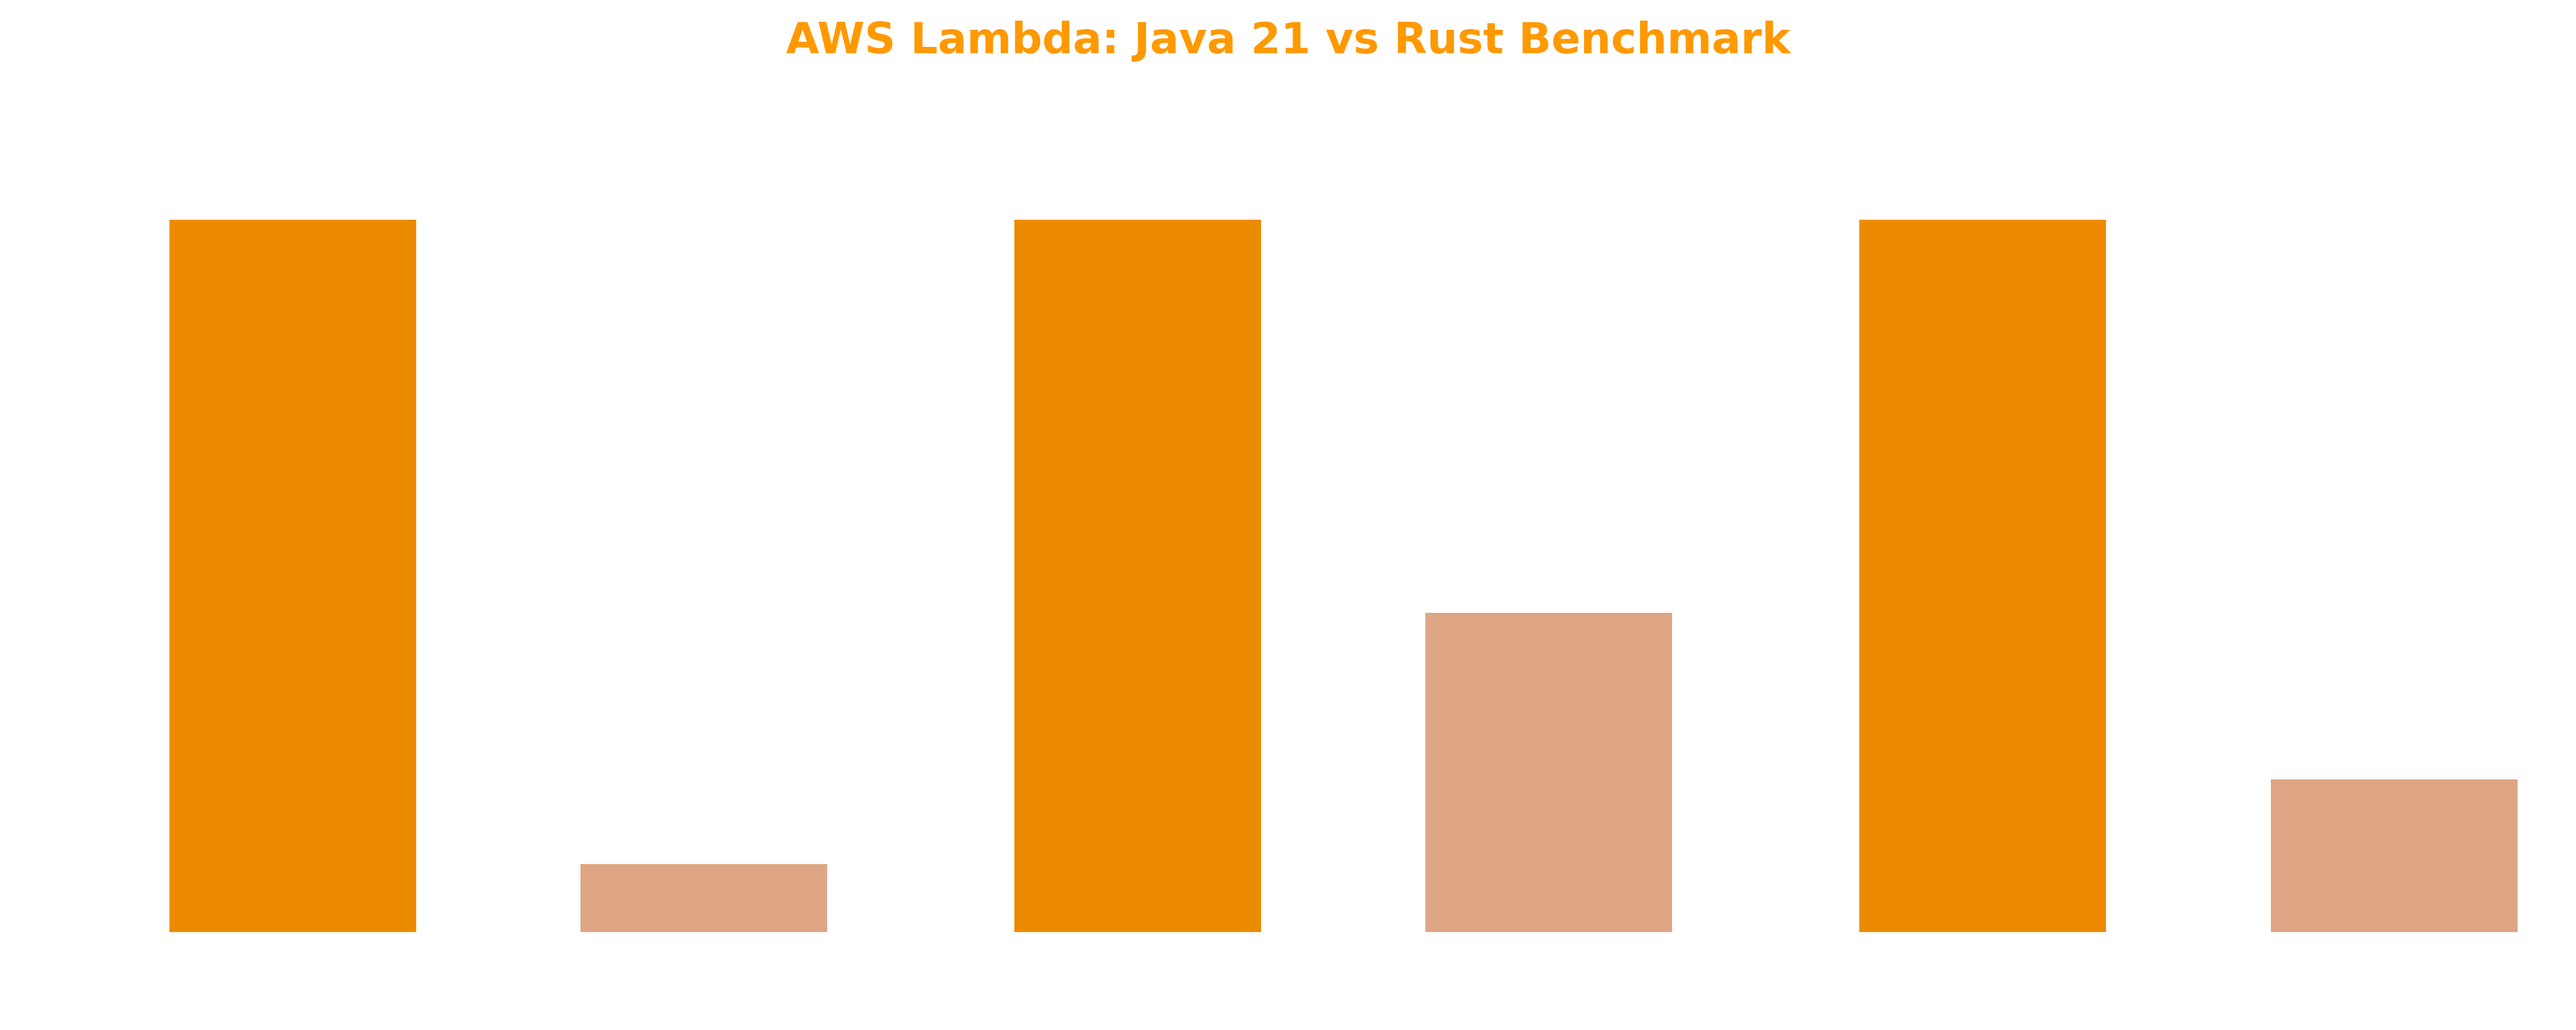
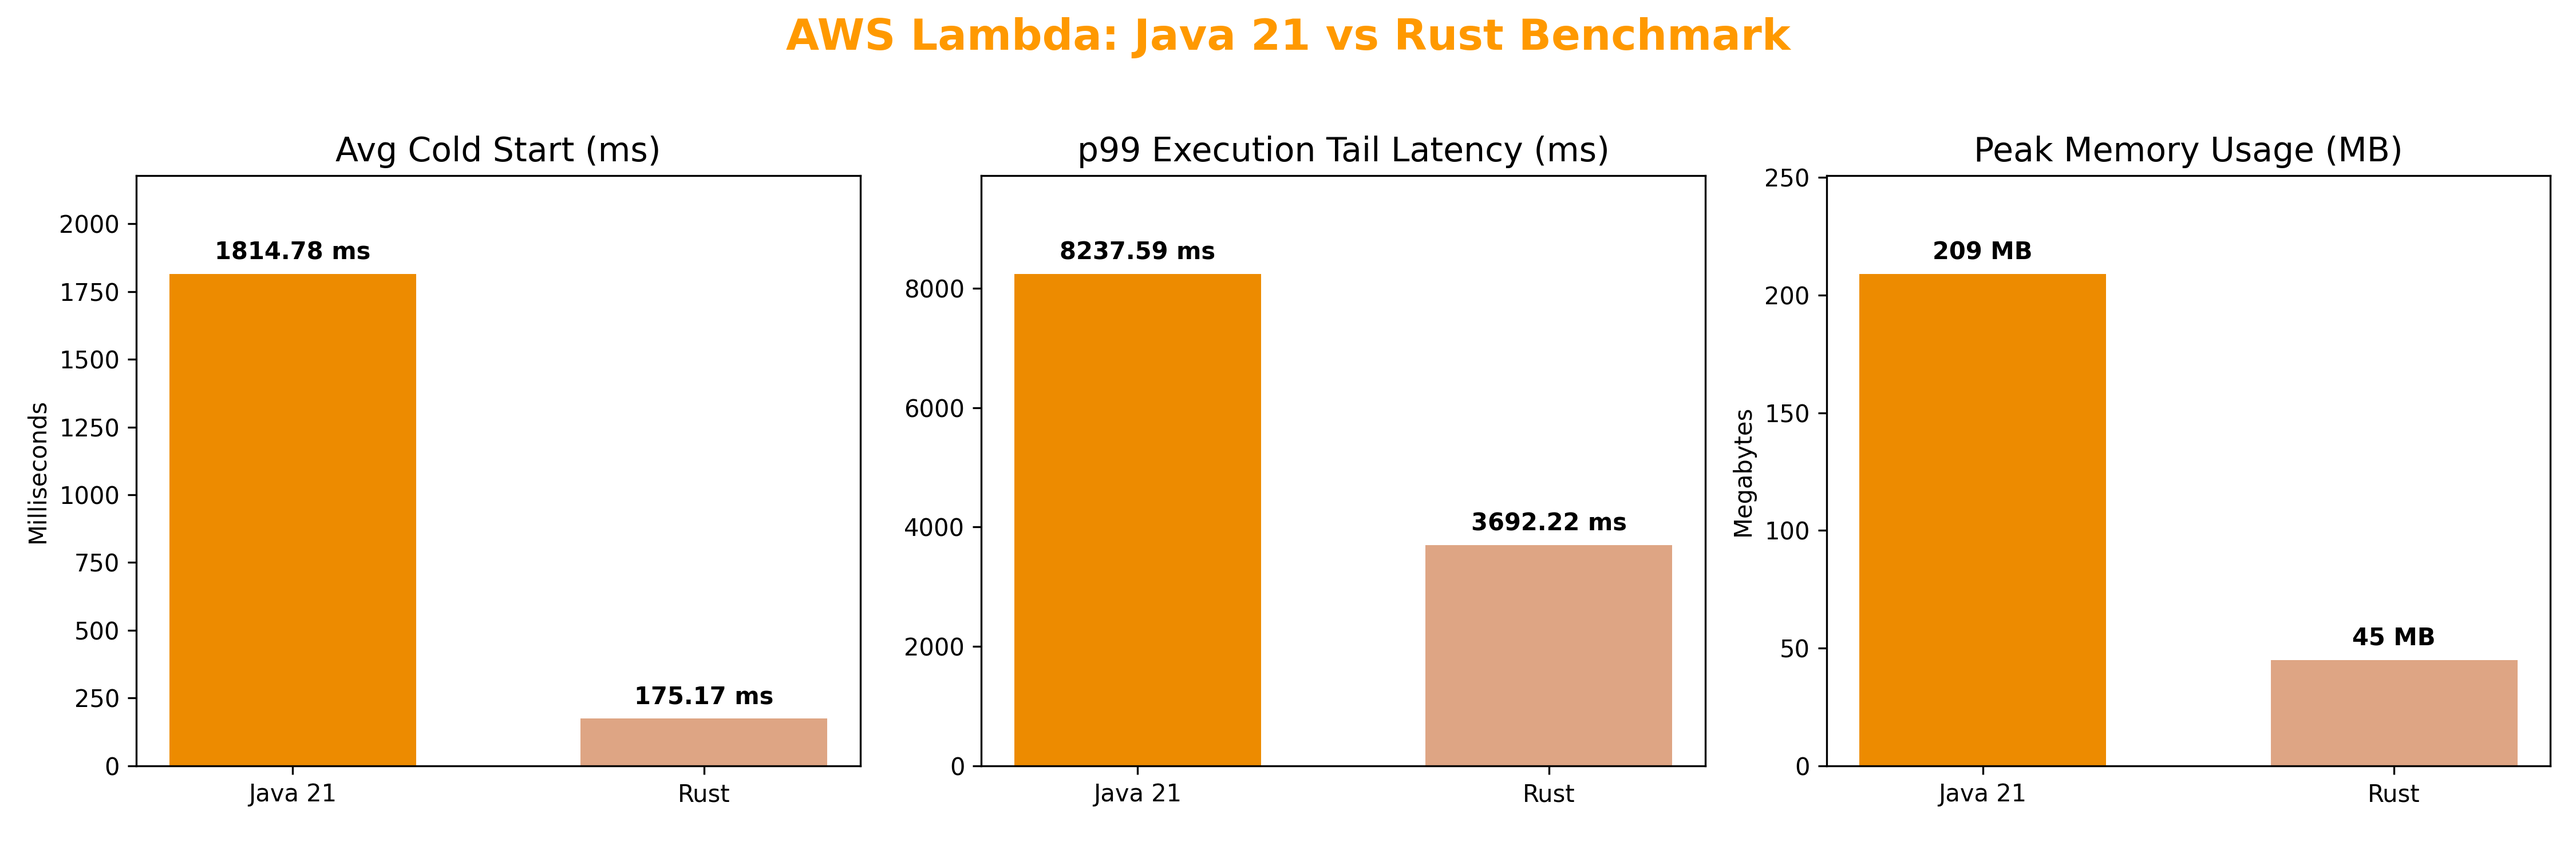
docs: Python dashboard script documentation and examples

diff --git a/scripts/dashboard.py b/scripts/dashboard.py
@@ -1,39 +1,67 @@
 import matplotlib.pyplot as plt
-import numpy as np
+import json
 import os
+import glob
+
+REPORTS_DIR = 'reports'
+report_files = glob.glob(os.path.join(REPORTS_DIR, '*_daily_report.json'))
+if not report_files:
+    raise FileNotFoundError(f"No file found inside {REPORTS_DIR}/")
+
+latest_report = max(report_files, key=os.path.getctime)
+print(f"Reading data: {latest_report}")
+
+with open(latest_report, 'r') as f:
+    data = json.load(f)
+funcs = data['functions']
 
 labels = ['Java 21', 'Rust']
-cold_starts = [1814.78, 175.26]       # ms
-p99_duration = [8229.60, 3691.89]     # ms
-memory_peak = [209.00, 45.00]         # MB
+cold_starts = [
+    funcs['java_function']['cloudwatch']['cold_start_ms']['avg'],
+    funcs['rust_function']['cloudwatch']['cold_start_ms']['avg']
+]
+p99_duration = [
+    funcs['java_function']['cloudwatch']['duration_ms']['p99'],
+    funcs['rust_function']['cloudwatch']['duration_ms']['p99']
+]
+memory_peak = [
+    funcs['java_function']['cloudwatch']['memory_used_mb']['max'],
+    funcs['rust_function']['cloudwatch']['memory_used_mb']['max']
+]
 
-plt.style.use('dark_background')
-fig, (ax1, ax2, ax3) = plt.subplots(1, 3, figsize=(15, 6))
+plt.style.use('default')
+fig, (ax1, ax2, ax3) = plt.subplots(1, 3, figsize=(15, 5))
 fig.suptitle('AWS Lambda: Java 21 vs Rust Benchmark', fontsize=18, fontweight='bold', color='#FF9900')
-
 colors = ['#ED8B00', '#DEA584']
 
-# 1. Cold Starts
+
+# Cold Starts
 ax1.bar(labels, cold_starts, color=colors, width=0.6)
 ax1.set_title('Avg Cold Start (ms)', fontsize=14)
 ax1.set_ylabel('Milliseconds')
+ax1.set_ylim(0, max(cold_starts) * 1.2) 
 for i, v in enumerate(cold_starts):
-    ax1.text(i, v + 50, f"{v} ms", ha='center', fontweight='bold')
+    ax1.text(i, v + (max(cold_starts) * 0.03), f"{v} ms", ha='center', fontweight='bold')
 
-# 2. Tail Latency (p99)
+# Tail Latency (p99)
 ax2.bar(labels, p99_duration, color=colors, width=0.6)
 ax2.set_title('p99 Execution Tail Latency (ms)', fontsize=14)
+ax2.set_ylim(0, max(p99_duration) * 1.2) 
 for i, v in enumerate(p99_duration):
-    ax2.text(i, v + 200, f"{v} ms", ha='center', fontweight='bold')
+    ax2.text(i, v + (max(p99_duration) * 0.03), f"{v} ms", ha='center', fontweight='bold')
 
-# 3. Memory Usage
+# Memory Usage
 ax3.bar(labels, memory_peak, color=colors, width=0.6)
 ax3.set_title('Peak Memory Usage (MB)', fontsize=14)
 ax3.set_ylabel('Megabytes')
+ax3.set_ylim(0, max(memory_peak) * 1.2) 
 for i, v in enumerate(memory_peak):
-    ax3.text(i, v + 5, f"{v} MB", ha='center', fontweight='bold')
+    ax3.text(i, v + (max(memory_peak) * 0.03), f"{v} MB", ha='center', fontweight='bold')
+
+
+
 plt.tight_layout(rect=[0, 0.03, 1, 0.95])
 os.makedirs('images', exist_ok=True)
 output_path = 'images/benchmark_overview.png'
-plt.savefig(output_path, transparent=True, dpi=300)
-print(f"Chart successfully saved to {output_path}")
+plt.savefig(output_path, transparent=False, facecolor='white', dpi=300)
+print(f"Diagram saved in {output_path}")

diff --git a/README.md b/README.md
@@ -264,9 +264,14 @@ aws s3 sync s3://<YOUR_OUTPUT_BUCKET_NAME>/ reports/ \
 ```
 
 ### Step 5: Generate Charts (Optional)
-To regenerate the performance visualization charts locally from your own benchmark data:
+To regenerate the performance visualization charts locally, the script needs actual telemetry data to parse. 
+
+**Prerequisite:** You must complete **Step 4** first so that the `reports/` directory contains at least one daily JSON report.
+>There is already an example inside the directory.
 
 ```bash
-pip install matplotlib numpy
+pip install matplotlib
 python scripts/generate_charts.py
 ```
+
+The image will be saved inside the `images/` directory.
